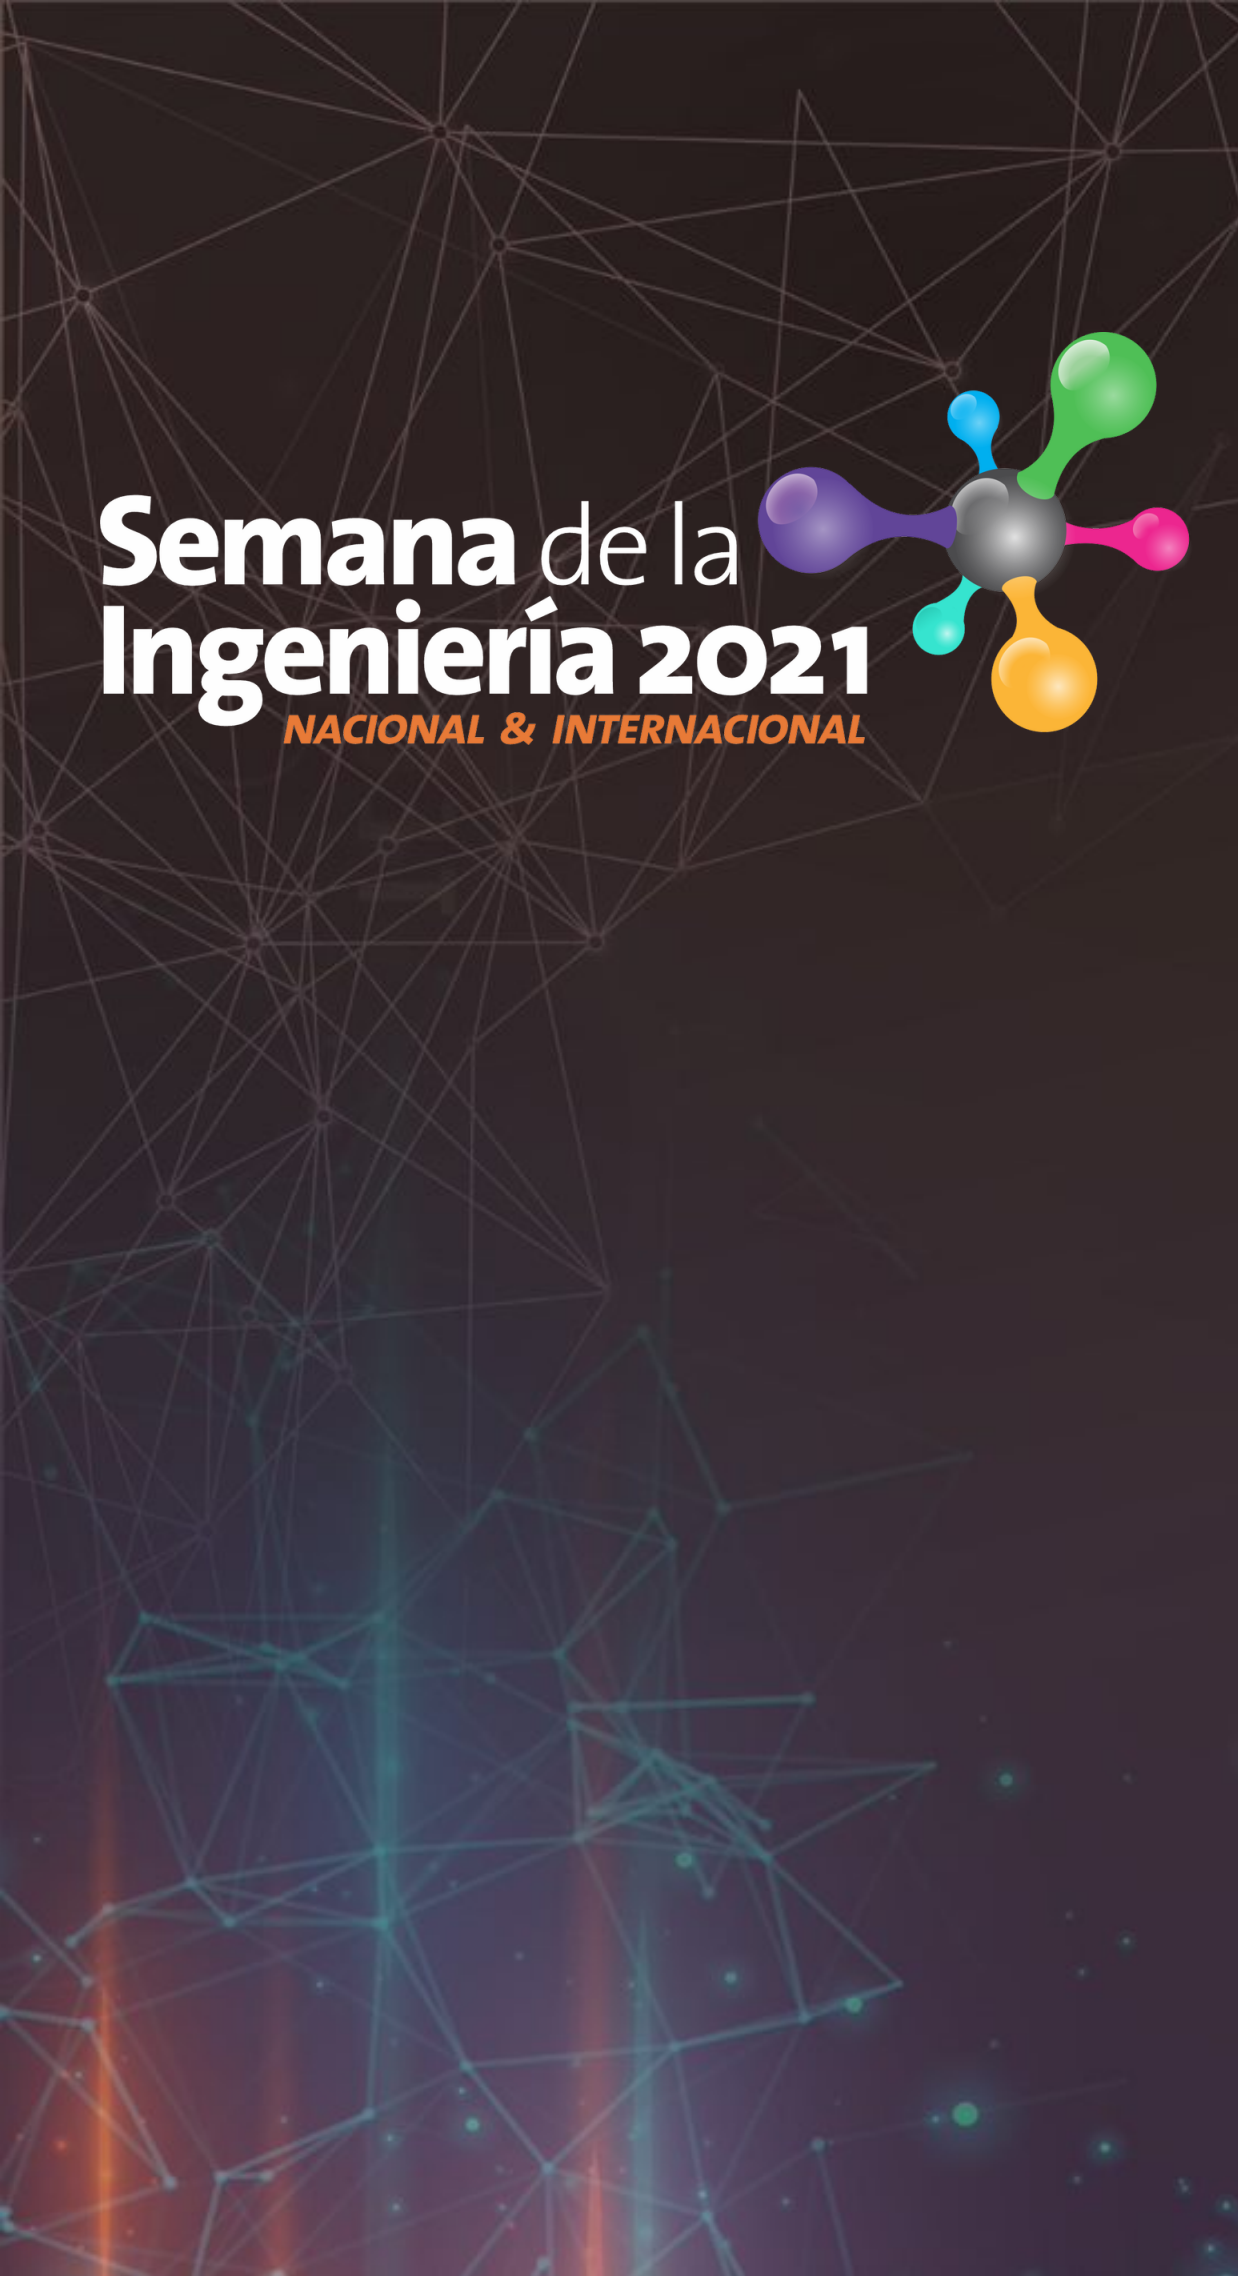
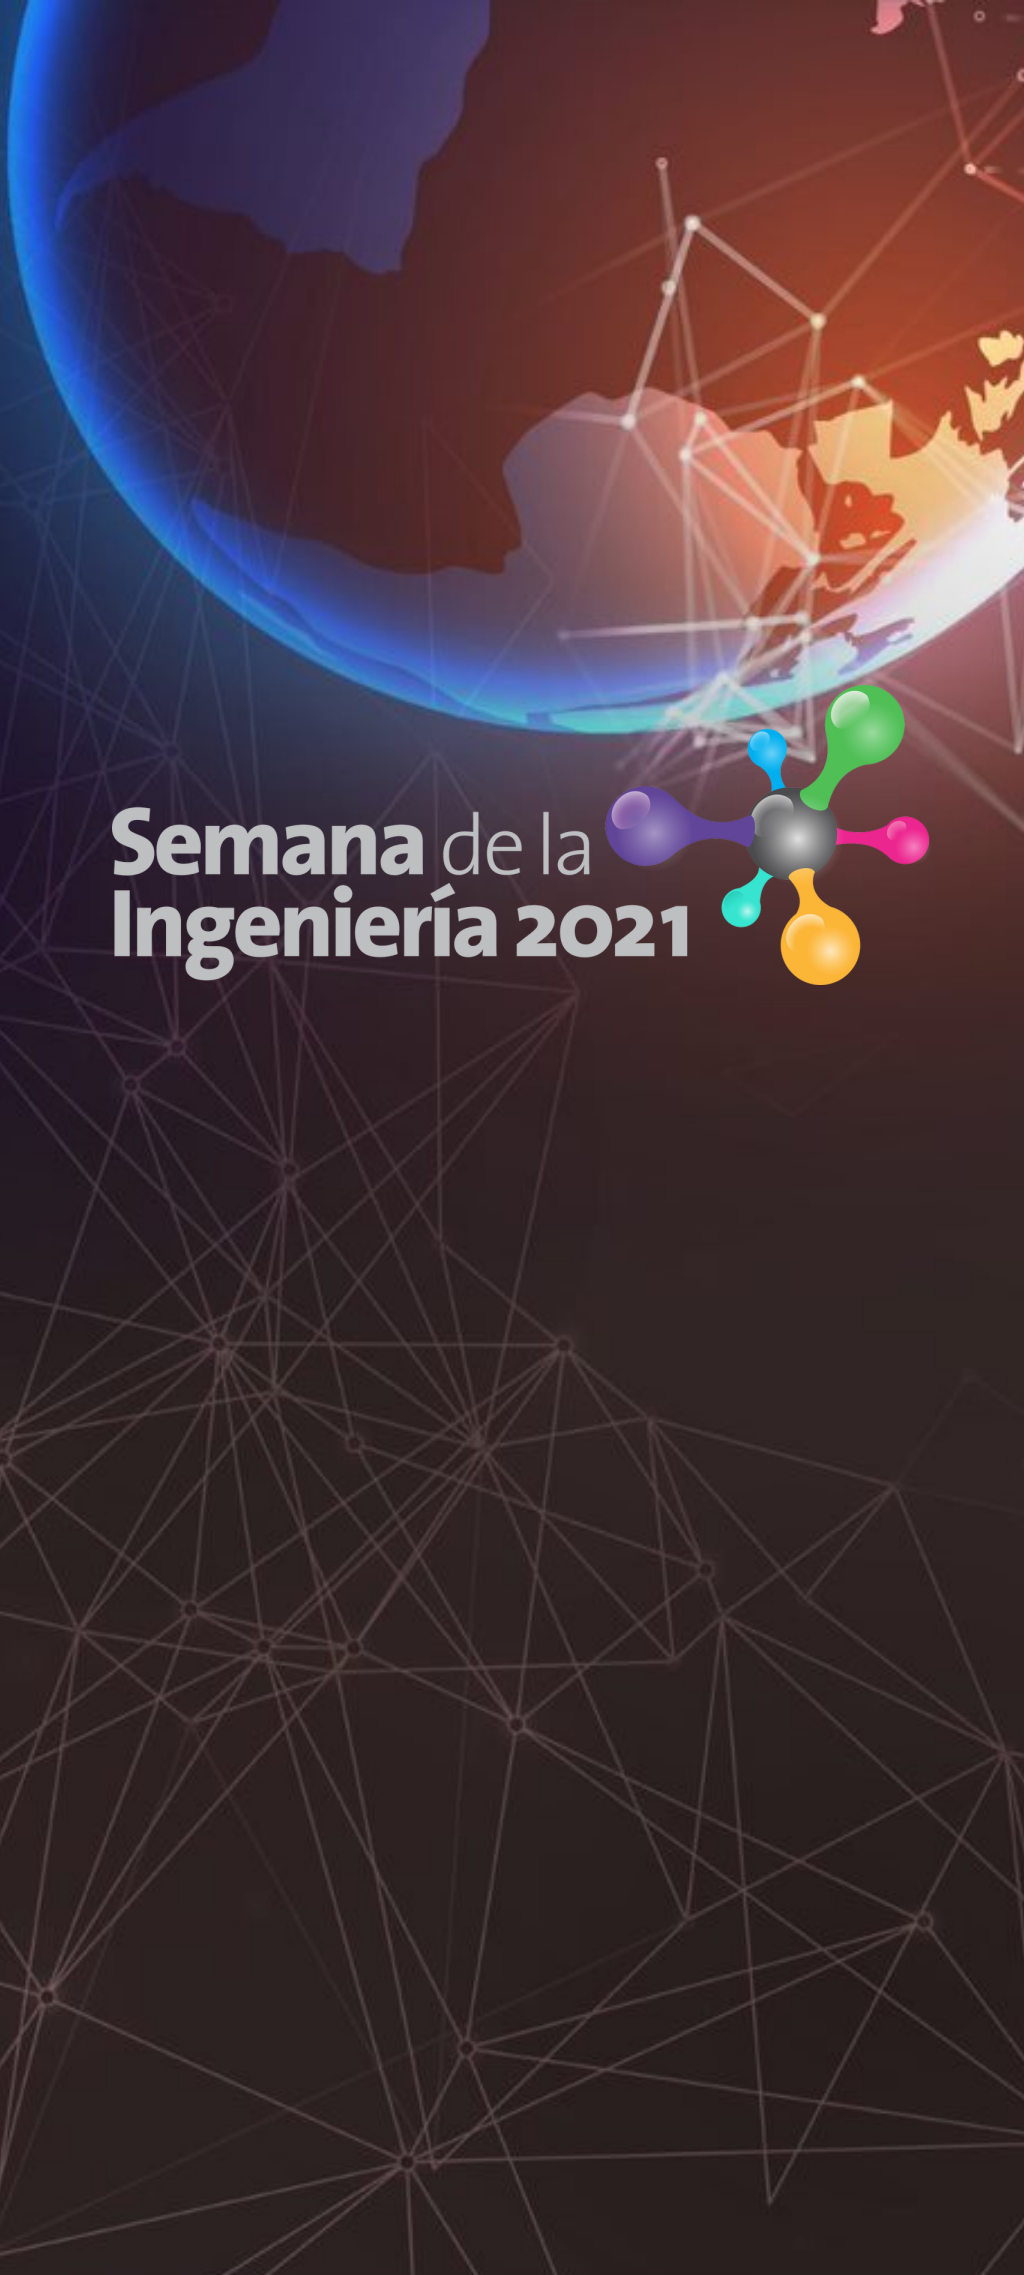
center login screen

diff --git a/SemanaApp.js b/SemanaApp.js
@@ -240,7 +240,7 @@ const SemanaApp = _ => {
         <View style={styles.container}>      
           <ImageBackground
             source={require('./assets/images/login.png')}
-            style={{width: imgWidth, height: imgHeight}}
+            style={styles.image}
           >
             <View style={styles.loginContainer}>
               <Button full block onPress={ logIn }>
@@ -273,6 +273,11 @@ const styles = StyleSheet.create({
     paddingBottom: 40,
     marginBottom: 75,
   },
+  image: {
+        flex: 1,
+    resizeMode: "cover",
+    justifyContent: "center"
+  }
 });
 
 export default SemanaApp;
